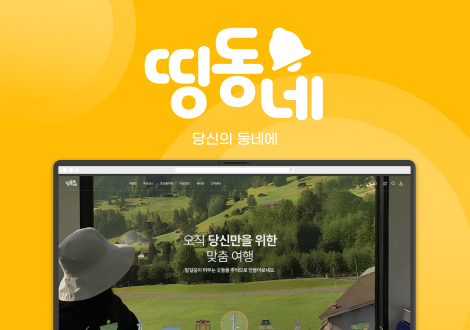
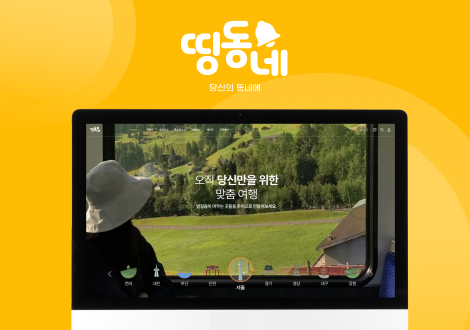
ver.1.8
포폴 이미지 수정

diff --git a/sub.html b/sub.html
@@ -1,0 +1,30 @@
+<!DOCTYPE html>
+<html lang="en">
+<head>
+    <meta charset="UTF-8">
+    <title>프로젝트명</title>
+    <style>
+        @keyframes view_on {
+            0% { background: rgba(0,0,0,0.5); }
+            50% { background: #b98657; }
+            100% { background: rgba(0,0,0,0.5); }
+        }
+        html { scroll-behavior: smooth; }
+        body { margin: 0; padding: 0; overflow-x: hidden; background: #483932; min-width: 320px; }
+        #wrap { width: 70%; margin: 0 auto; }
+        img { display: block; width: 100%; }
+        .btn { position: fixed; right: 15%; bottom: 0; transform: translateX(60px); }
+        .btn a { text-decoration: none; color: #fff; display: block; width: 60px; padding: 20px 0; text-align: center; }
+        .btn a.view { background: rgba(0,0,0,0.5); font-size: 14px; animation: view_on 3s infinite; }
+        .btn a.gotop { background: rgba(0,0,0,1); }
+    </style>
+</head>
+
+<body>
+    <a name="top"></a>
+    <div id="wrap">
+        <div class="btn"><a href="피그마 프로토타이핑 주소" class="view">View</a><a href="#top" class="gotop">↑</a></div>
+        <img src="../img/portfolio/project file name.jpg"></a>
+    </div>
+</body>
+</html>

diff --git a/index.html b/index.html
@@ -181,7 +181,7 @@
 				
 				<div class="clearfix visible-sm-block"></div>
 
-				<div class="col-md-4 col-sm-6 col-xxs-12">
+				<!--<div class="col-md-4 col-sm-6 col-xxs-12">
 					<a href="images/work_7.jpg" class="fh5co-project-item image-popup to-animate">
 						<img src="images/work_7.jpg" alt="Image" class="img-responsive">
 						<div class="fh5co-text">
@@ -210,7 +210,7 @@
 						<span>Illustration</span>
 						</div>
 					</a>
-				</div>
+				</div>-->
 			</div>
 		</div>
 	</section>
@@ -224,9 +224,9 @@
 				<div class="col-md-12 section-heading text-center">
 					<h2 class="to-animate">About Me</h2>
 					<div class="row">
-						<div class="col-md-8 col-md-offset-2 subtext to-animate">
+						<!--<div class="col-md-8 col-md-offset-2 subtext to-animate">
 							<h3>Introduce my self</h3>
-						</div>
+						</div>-->
 					</div>
 				</div>
 			</div>
